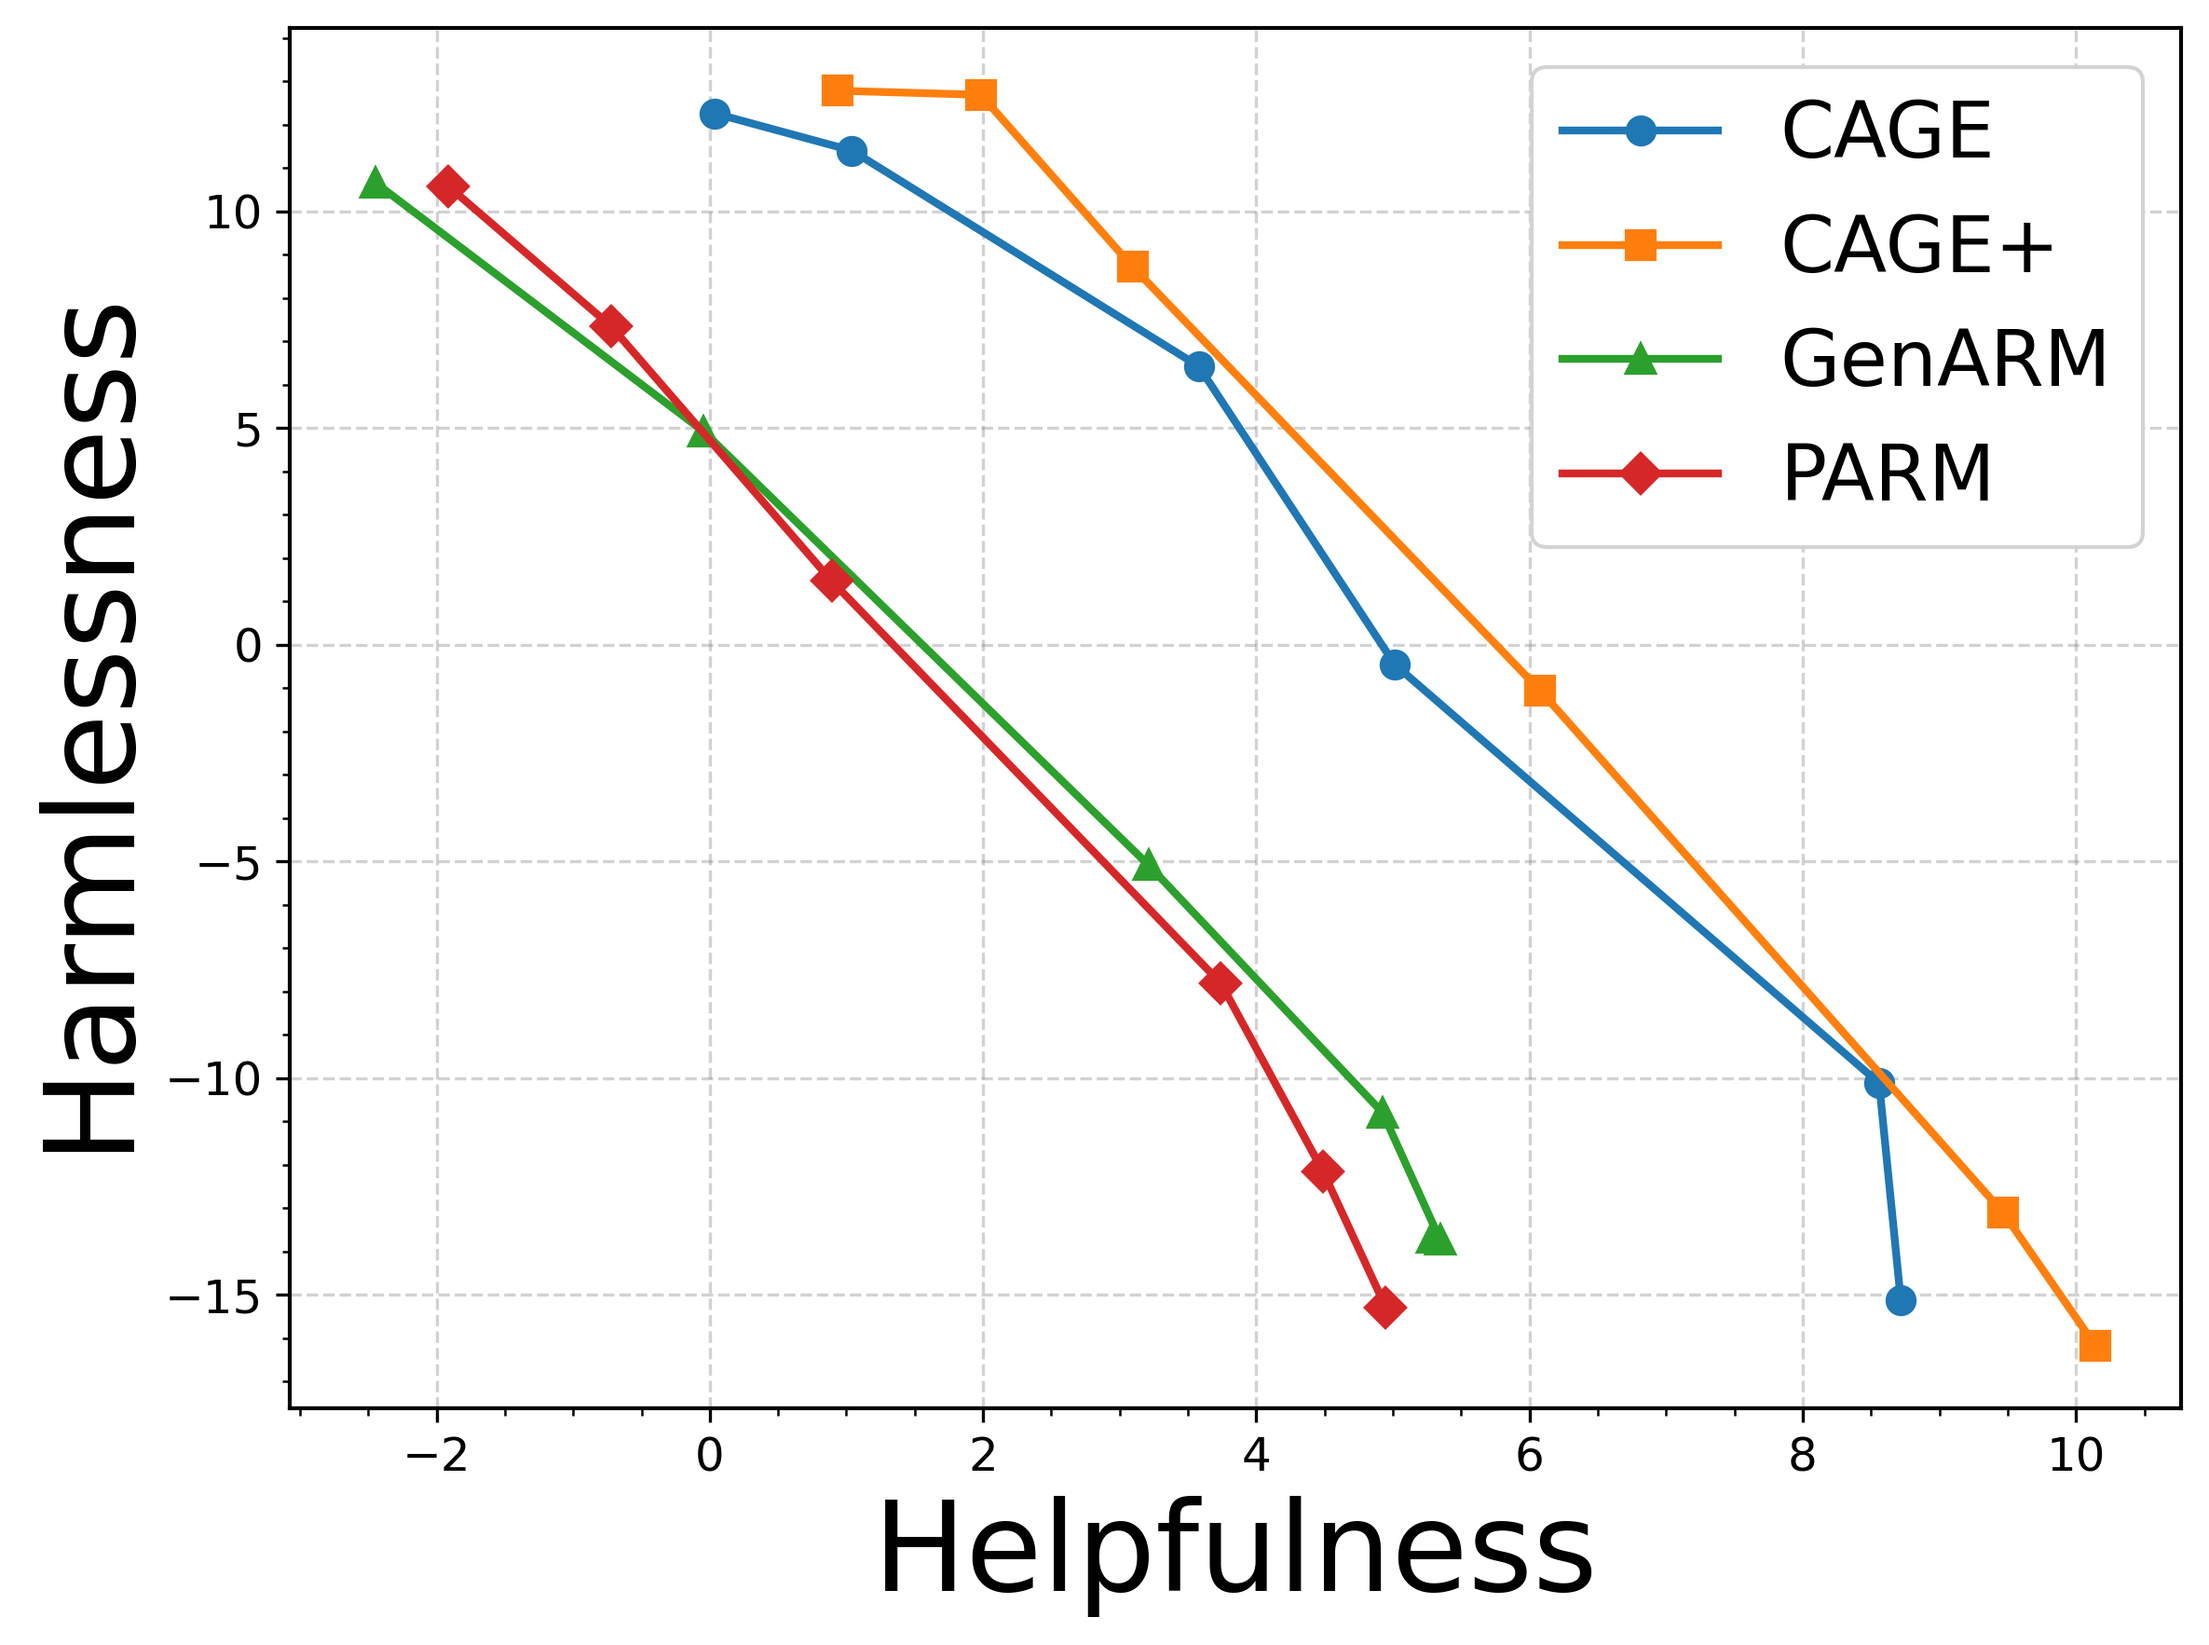
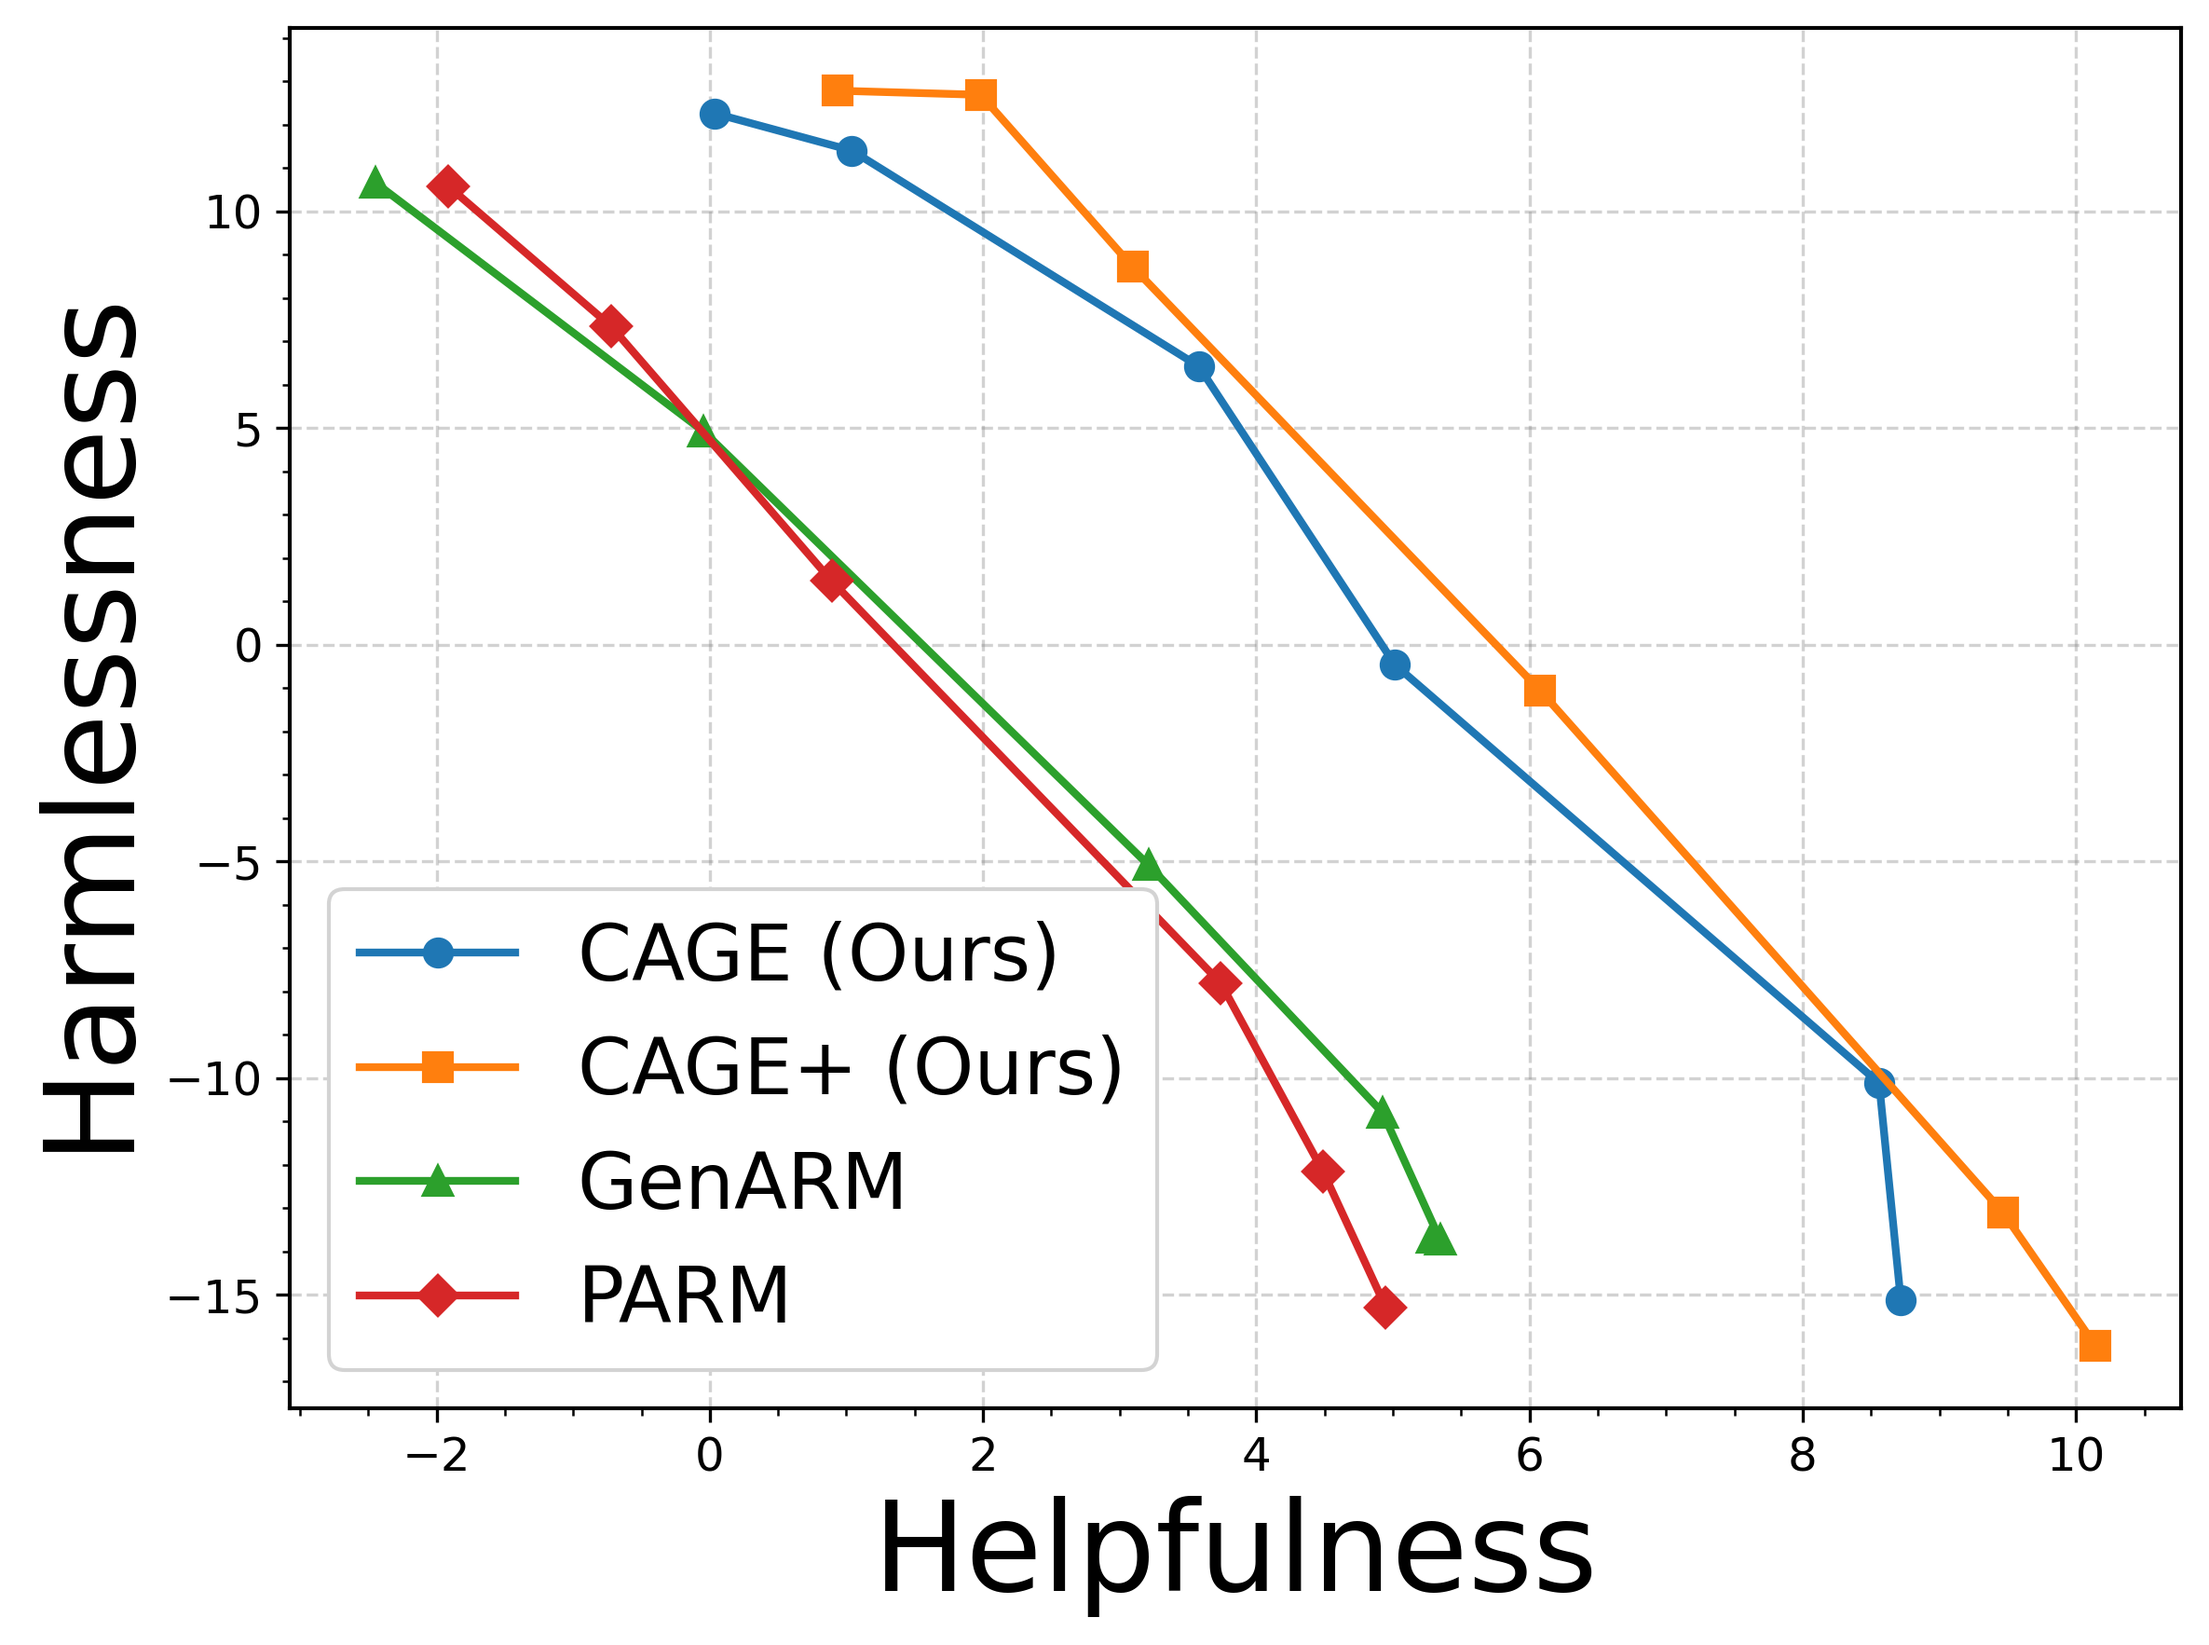
Update epec parm 0.1 0.9 results

diff --git a/code/evaluation/plot_pareto_tau.py b/code/evaluation/plot_pareto_tau.py
@@ -47,8 +47,8 @@ PARM_BASELINE_DIR = BASE_DIR / "results_parm"
 # ============================================================
 # tau and k
 # ============================================================
-TAU = 0.1
-K = 100
+TAU = 0.4
+K = 50
 
 SENS_DIR = BASE_DIR / "sensitivity analysis_new"
 RUN_DIR = SENS_DIR / f"tau={TAU}_N={K}"
@@ -520,7 +520,7 @@ def main():
     plot_method(
         ax,
         epec_genarm_points,
-        label="CAGE",
+        label="CAGE (Ours)",
         marker_style="o",
         color="tab:blue",
         linestyle="-",
@@ -531,7 +531,7 @@ def main():
     plot_method(
         ax,
         epec_parm_points,
-        label="CAGE+",
+        label="CAGE+ (Ours)",
         marker_style="s",
         color="tab:orange",
         linestyle="-",
